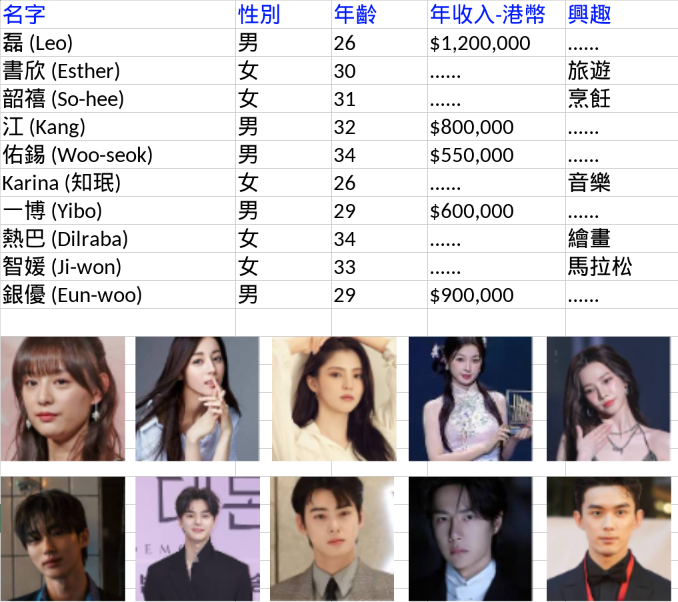
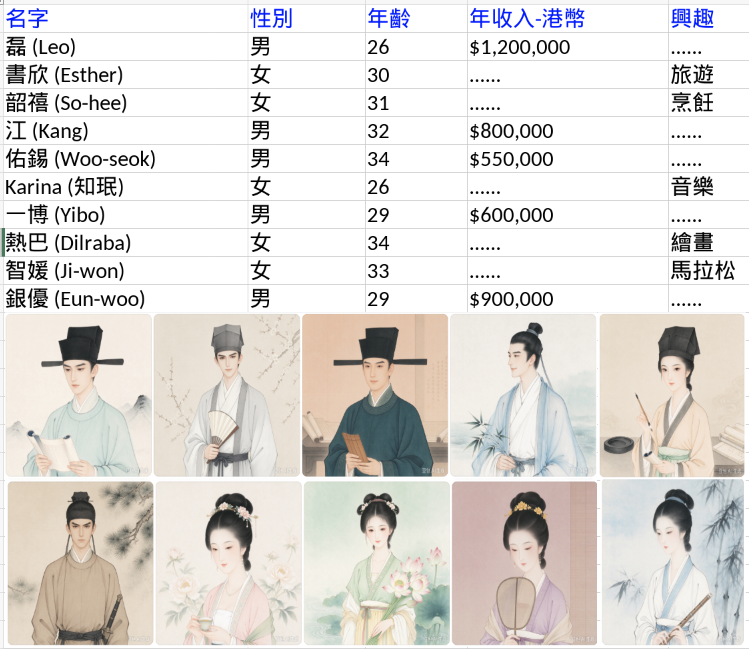
step 015: finished E1,E2,E3,E4,E5,E6,E9,E9.1-E9.6,E10

diff --git a/index.html b/index.html
@@ -70,11 +70,18 @@
     </nav>
     <section class="body-container pattern-I">
         <div class="box">
-            <p>《青玉案·元夕》宋代 辛棄疾:</p>
-            <p>東風夜放花千樹，更吹落、星如雨。寶馬雕車香滿路。鳳簫聲動，玉壺光轉，一夜魚龍舞。蛾兒雪柳黃金縷，笑語盈盈暗香去。眾裏尋他千百度，驀然迴首，那人卻在燈火闌珊處。</p>
+            <p class="song-ci">《青玉案·元夕》宋代 辛棄疾:</p>
+            <p class="song-ci">東風夜放花千樹，更吹落、星如雨。寶馬雕車香滿路。鳳簫聲動，玉壺光轉，一夜魚龍舞。蛾兒雪柳黃金縷，笑語盈盈暗香去。眾裏尋他千百度，驀然迴首，那人卻在燈火闌珊處。</p><br>
+            <img src="./img/e09_00.png" alt="">
         </div>
         <div class="box">
-            <p>闌珊相親及婚姻家庭服務有限公司為本地一間有二十多年歷史的中小型企業。“闌珊”兩字來自中國宋代著名詞人辛棄疾的經典名篇《青玉案·元夕》。闌珊公司的主營業務為相親對象介紹，包括: 提供相親對象查冊服務、相親午餐／晚餐安排服務、大型相親旅行、闌珊通訊軟件服務、性格類型測試服務等等，同時亦經營一些與婚姻家庭事宜有關的業務，包括: 婚禮籌辦、婚前婚後心理輔導、產前產後醫療檢查、親子鑑定、分手服務、遺產分配與繼承等。闌珊公司也定期參予不同的社會慈善活動，以回饋社會。闌珊公司目前的員工總數約十五人，包括八名全職員工及七名兼職員工。為了提供更優質的服務，闌珊公司決定建立一個全新的網站，簡稱闌珊網站。</p>
+            <p><span class="company">闌珊相親及婚姻家庭服務有限公司</span>(簡稱闌珊公司，下同)為本地一間有二十多年歷史的中小型企業。“闌珊”兩字來自中國宋代著名詞人辛棄疾的經典名篇《青玉案·元夕》。</p><br>
+            <p>
+                闌珊公司的主營業務為相親對象介紹，包括: 提供相親對象查冊服務、相親午餐／晚餐安排服務、大型相親旅行、闌珊通訊軟件服務、性格類型測試服務等等，同時亦經營一些與婚姻家庭事宜有關的業務，包括: 婚禮籌辦、婚前婚後心理輔導、產前產後醫療檢查、親子鑑定、分手服務、遺產分配與繼承等。闌珊公司也定期參予不同的社會慈善活動，以回饋社會。
+            </p><br>
+            <p>
+                闌珊公司目前的員工總數約十五人，包括八名全職員工及七名兼職員工。為了提供更優質的服務，闌珊公司決定建立一個全新的網站，簡稱<span class="company">闌珊網站</span>。
+            </p>
         </div>
     </section>
 

diff --git a/e06_00_LanShanApp.html b/e06_00_LanShanApp.html
@@ -68,7 +68,25 @@
         </div>
         </div>
     </nav>
-    <h1>闌訊安裝</h1><br>
+    <section class="body-container pattern-I">
+        <div class="box">
+            <img src="./img/e06_00.png" alt="#">
+        </div>
+        <div class="box">
+            <h1>闌訊安裝</h1>
+            <p>
+                闌珊公司明白，尋覓良緣需要安心的交流空間。我們專屬的電子通訊平台<strong>[闌訊]</strong>，只開放予本公司經審核的會員使用，私隱度極高。會員可透過平台自由對話、分享生活、了解彼此，無論一對一私訊或小群組交流，均能在嚴謹的權限管理下進行。平台重視資料保密，設有舉報、封鎖及安全提示功能，讓大家在舒適、可信的環境中建立關係。你亦可隨時聯絡我們的專業顧問，獲取配對及溝通建議。告別陌生平台的不安與騷擾，立即登入以下其中一個應用程式商店，選擇<strong>[闌訊]</strong>，下載及安裝我們的程式後便可安心與你心儀的對象聯繫，讓緣分在私密而真誠的對話中慢慢萌芽!
+            </p>
+            <div>
+                <ul>
+                    <li><strong>Google Play</strong></li>
+                    <li><strong>Apple Play</strong></li>
+                    <li><strong>Huawei AppGallery</strong></li>
+                </ul>
+            </div>
+        </div>
+    </section>
+
     <footer class="footer">
         <div class="footer-flex">
             <small>闌珊相親及婚姻家庭服務有限公司版權所有 © 2026</small>

diff --git a/e10_00_Newsletter.html b/e10_00_Newsletter.html
@@ -68,7 +68,18 @@
         </div>
         </div>
     </nav>
-    <h1>闌珊月刊</h1><br>
+    <section class="body-container pattern-I">
+        <div class="box">
+            <img src="./img/e10_00.png" alt="#">
+        </div>
+        <div class="box">
+            <h1>闌珊月刊</h1>
+            <p>
+                闌珊公司誠意為會員獻上專屬電子月刊<span class="company">《闌珊月刊》</span>。只要正式成為闌珊會會員，便自動成為訂閱戶，無需額外申請。月刊內容包羅萬有，涵蓋情感專欄、配對心得、兩性溝通技巧、九型人格解析、健康生活、旅遊美食、會員真實故事及最新活動預告等，適合不同年齡層閱讀。每月定期以電子形式送上，隨時隨地線上翻閱，私隱度高，方便快捷。透過《闌珊月刊》，你不僅獲得實用資訊與心靈啟發，更能第一時間掌握聯誼活動、專屬優惠及配對趨勢。立即加入<a href="./e08_00_MemberLogin.html" class="newsletter">闌珊會</a>，讓《闌珊月刊》陪伴你，在尋愛路上更自信、更從容，一步步走向幸福。
+            </p>
+        </div>
+    </section>
+
     <footer class="footer">
         <div class="footer-flex">
             <small>闌珊相親及婚姻家庭服務有限公司版權所有 © 2026</small>

diff --git a/e09_01_WeddingPlan.html b/e09_01_WeddingPlan.html
@@ -68,7 +68,18 @@
         </div>
         </div>
     </nav>
-    <h1>婚禮籌辦</h1><br>
+    <section class="body-container pattern-I">
+        <div class="box">
+            <h1>婚禮籌辦</h1>
+            <p>
+                闌珊公司深明，一段良緣開花結果，最動人的一刻，莫過於攜手步入婚姻。我們的婚禮籌辦服務，專為會員及準新人提供一站式貼心支援。由婚禮主題構思、場地佈置、婚紗禮服、攝影錄影、司儀統籌、賓客安排，到喜宴菜單與流程管理，專業團隊都會細心聆聽你們的故事，度身打造獨一無二的婚禮。我們更可配合相親配對會員的愛情歷程，將相識、相知到相守的點滴融入婚禮細節，讓親友見證你們的甜蜜。無論溫馨小型婚禮，還是盛大宴會，闌珊公司都力求完美，減輕新人壓力，讓你們專心享受幸福時刻。立即聯絡我們，讓專業團隊為你籌劃一場難忘婚禮，為愛情寫下最美結局。
+            </p>
+        </div>
+        <div class="box">
+            <img src="./img/e09_01.png" alt="#">
+        </div>
+    </section>
+
     <footer class="footer">
         <div class="footer-flex">
             <small>闌珊相親及婚姻家庭服務有限公司版權所有 © 2026</small>

diff --git a/e09_05_Breakup.html b/e09_05_Breakup.html
@@ -68,7 +68,18 @@
         </div>
         </div>
     </nav>
-    <h1>分手</h1><br>
+    <section class="body-container pattern-I">
+        <div class="box">
+            <h1>分手服務</h1>
+            <p>
+                闌珊公司明白，並非每段關係都能走到最後。當已婚伴侶決定離婚，或同居多年的男女選擇分開，往往伴隨情緒、財務、住屋、子女及法律等複雜問題。我們的「分手服務」以尊重、保密和中立為原則，只接受雙方已決定分開的個案，由專業團隊提供情緒支援、分手調解及溝通指導，協助彼此理性表達需要，減少衝突與傷害。服務亦涵蓋財務分配、住屋安排、子女照顧及探視等討論框架，並按需要轉介合資格律師處理離婚及法律文件。無論是和平分手，還是關係已陷僵局，我們都希望助你妥善結束，重新出發。立即聯絡闌珊公司，讓專業團隊陪你走過艱難時刻，為未來保留尊嚴與平靜。
+            </p>
+        </div>
+        <div class="box">
+            <img src="./img/e09_05.png" alt="#">
+        </div>
+    </section>
+
     <footer class="footer">
         <div class="footer-flex">
             <small>闌珊相親及婚姻家庭服務有限公司版權所有 © 2026</small>

diff --git a/css/styles.css b/css/styles.css
@@ -210,7 +210,7 @@
 
 body {
     font-family: 'Franklin Gothic Medium', 'Arial Narrow', Arial, sans-serif;
-    /* come back later */
+    background-color: var(--clr-neutralA-5);
 }
 
 a {
@@ -410,6 +410,26 @@ img {
     padding: 1rem;
 }
 
+/* completely hide all <p>, <h1>, <footer>, <img> elements whenever the hamburger icon is clicked */
+.hidden-content {
+    display: none;
+}
+
+strong {
+    color: blue;
+    text-decoration: underline;
+}
+
+.company {
+    color: var(--clr-secondary-6);
+    font-weight: bold;
+}
+
+h1 {
+    color: var(--clr-secondary-6);
+}
+
+
 /* ============================== */
 /* end of define a reusable grid container */
 /* ============================= */
@@ -433,12 +453,7 @@ img {
     }
 }
 
-/* completely hide all <p> elements whenever the hamburger icon is clicked */
-.hidden-content {
-    display: none;
-}
-
-.enneagram {
+.enneagram, .newsletter {
     color: blue;
     text-decoration: underline;
 }
@@ -446,6 +461,21 @@ img {
 .box-e05_00 {
     justify-self: center;
     align-self: start;
+}
+
+.box-e05_02 {
+    justify-self: left;
+    align-self: center;
+    color: blue;
+}
+
+.pattern-I li a {
+    color: blue;
+    text-decoration: underline;
+}
+
+.song-ci {
+    color: var(--clr-primary-5);
 }
 
 /* ============================== */

diff --git a/e09_04_Paternity.html b/e09_04_Paternity.html
@@ -68,7 +68,18 @@
         </div>
         </div>
     </nav>
-    <h1>親子鑑定</h1><br>
+    <section class="body-container pattern-I">
+        <div class="box">
+            <h1>親子鑑定</h1>
+            <p>
+                闌珊公司明白，確認親子關係對家庭、法律及個人情感均極為重要。我們推出專業親子鑑定服務，與合資格化驗所合作，採用DNA分析技術，準確可靠。服務適用於確認親子關係、移民申請、法律訴訟、撫養權、遺產繼承及個人安心等需要。樣本可採用口腔拭子或血液等方式，程序簡單，由專人指導。整個過程嚴格保密，尊重客戶私隱，報告由專業人員講解，讓你清晰了解結果。無論是婚前婚後、產前產後，或家庭出現疑問，闌珊公司都願意以專業、中立、謹慎的態度提供支援。立即預約，讓科學為你釐清真相，為家庭未來作出明智決定。
+            </p>
+        </div>
+        <div class="box">
+            <img src="./img/e09_04.png" alt="#">
+        </div>
+    </section>
+
     <footer class="footer">
         <div class="footer-flex">
             <small>闌珊相親及婚姻家庭服務有限公司版權所有 © 2026</small>

diff --git a/e09_06_Inheritance.html b/e09_06_Inheritance.html
@@ -68,7 +68,18 @@
         </div>
         </div>
     </nav>
-    <h1>遺產繼承</h1><br>
+    <section class="body-container pattern-I">
+        <div class="box">
+            <h1>遺產分配與繼承</h1>
+            <p>
+                闌珊公司深明，財富傳承不只是資產分配，更是對家人的愛與責任。我們推出遺產分配與繼承服務，由專業顧問聯同律師、會計師及調解專家，協助你訂立遺囑、整理資產、釐清法定繼承次序，並辦理遺產承辦、轉名及相關手續。若家庭成員對分配有分歧，我們亦可提供中立調解，減少爭拗，維護親情。服務過程嚴守保密，尊重個人意願，並按需要轉介合適法律及稅務支援。無論是預早規劃，還是面對突然離世後的繼承安排，闌珊公司都願以專業和同理心陪伴左右。立即聯絡我們，讓財富與心意妥善傳承，為家人留下安心與和諧。
+            </p>
+        </div>
+        <div class="box">
+            <img src="./img/e09_06.png" alt="#">
+        </div>
+    </section>
+
     <footer class="footer">
         <div class="footer-flex">
             <small>闌珊相親及婚姻家庭服務有限公司版權所有 © 2026</small>

diff --git a/e09_02_Counsel.html b/e09_02_Counsel.html
@@ -68,7 +68,18 @@
         </div>
         </div>
     </nav>
-    <h1>心理輔導</h1><br>
+    <section class="body-container pattern-I">
+        <div class="box">
+            <h1>婚前婚後心理輔導</h1>
+            <p>
+                闌珊公司明白，婚姻不只是婚禮一日的浪漫，更是長久相處的學問。我們的婚前婚後心理輔導服務，由專業團隊提供，婚前協助準新人了解彼此性格、價值觀、金錢觀、家庭期望與溝通模式，預早化解分歧；婚後則針對相處磨合、情緒管理、衝突處理、親密關係、生育規劃及家庭壓力等提供支援。透過一對一或伴侶面談，保密、中立、不批判，幫助你們建立健康互動，鞏固感情基礎。無論準備結婚，還是已婚多年，都歡迎預約。讓闌珊公司陪伴你們，由相愛到相守，走得更穩、更遠。立即聯絡，預約專屬輔導時段。
+            </p>
+        </div>
+        <div class="box">
+            <img src="./img/e09_02.png" alt="#">
+        </div>
+    </section>
+
     <footer class="footer">
         <div class="footer-flex">
             <small>闌珊相親及婚姻家庭服務有限公司版權所有 © 2026</small>

diff --git a/e09_03_HealthCheck.html b/e09_03_HealthCheck.html
@@ -68,7 +68,18 @@
         </div>
         </div>
     </nav>
-    <h1>醫療檢查</h1><br>
+    <section class="body-container pattern-I">
+        <div class="box">
+            <h1>產前產後醫療檢查</h1>
+            <p>
+                闌珊公司關顧會員由相戀、結婚到組織家庭的每一步，特別推出產前產後醫療檢查服務。我們與專業醫療機構合作，為準媽媽提供產前檢查、胎兒健康評估、孕期營養及風險諮詢；產後則涵蓋身體復原、傷口護理、情緒支援、母乳餵哺指導及嬰兒健康檢查等。服務由合資格醫護人員負責，私隱度高，預約方便，並可配合會員需要安排合適時段。無論首次懷孕還是再次生育，我們都希望媽媽與寶寶得到妥善照顧，讓新手父母更安心。立即聯絡闌珊公司，預約你的產前產後檢查，為家庭健康踏出重要一步。
+            </p>
+        </div>
+        <div class="box">
+            <img src="./img/e09_03.png" alt="#">
+        </div>
+    </section>
+
     <footer class="footer">
         <div class="footer-flex">
             <small>闌珊相親及婚姻家庭服務有限公司版權所有 © 2026</small>

diff --git a/e09_00_MoreServices.html b/e09_00_MoreServices.html
@@ -68,7 +68,26 @@
         </div>
         </div>
     </nav>
-    <h1>其他服務</h1><br>
+    <section class="body-container pattern-I">
+        <div class="box">
+            <img src="./img/e09_00.png" alt="#">
+        </div>
+        <div class="box">
+            <h1>其他服務</h1>
+            <p>
+                闌珊公司亦同時經營一些與婚姻家庭事宜有關的業務:
+            </p><br>
+            <ul>
+                <li><a href="./e09_01_WeddingPlan.html">婚禮籌辦</a></li>
+                <li><a href="./e09_02_Counsel.html">婚前婚後心理輔導</a></li>
+                <li><a href="./e09_03_HealthCheck.html">產前產後醫療檢查</a></li>
+                <li><a href="./e09_04_Paternity.html">親子鑑定</a></li>
+                <li><a href="./e09_05_Breakup.html">分手服務</a></li>
+                <li><a href="./e09_06_Inheritance.html">遺產分配與繼承</a></li>            
+            </ul>
+        </div>
+    </section>
+
     <footer class="footer">
         <div class="footer-flex">
             <small>闌珊相親及婚姻家庭服務有限公司版權所有 © 2026</small>

diff --git a/script/javascript.js b/script/javascript.js
@@ -6,12 +6,16 @@ document.addEventListener("DOMContentLoaded", () => {
     const mobileMenu = document.querySelector('.navbar .mobile-menu-items');
     const paragraphs = document.querySelectorAll('p');
     const heads = document.querySelectorAll('h1');
+    const footers = document.querySelectorAll('footer');
+    const imgs = document.querySelectorAll('img');
 
     toggleButton.addEventListener('click', ()=> {
         mobileMenu.classList.toggle('active');
         // completely hide all <p> elements whenever the hamburger icon is clicked
         paragraphs.forEach(p => p.classList.toggle('hidden-content'));
         heads.forEach(h1 => h1.classList.toggle('hidden-content'));
+        footers.forEach(footer => footer.classList.toggle('hidden-content'));
+        imgs.forEach(img => img.classList.toggle('hidden-content'));
     })
 })
 /* ============================== */
